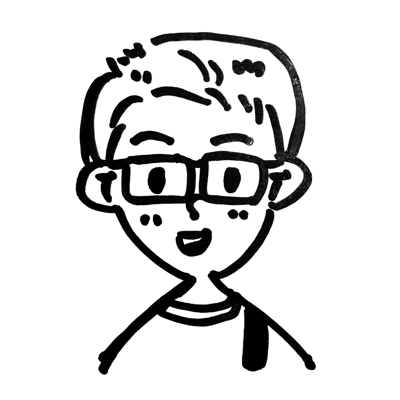
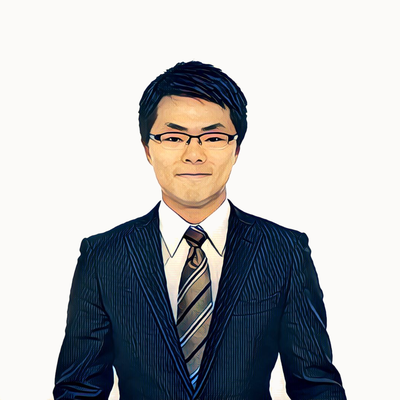
换用真人头像，人文智能卡片正文压缩到与其余三块齐平
头像：
- 换成本人证件照（原图 1080×1080）
- 裁掉带暗角的外框，从四边泛洪填充把背景重涂为站点浅色背景 #fbfaf8
  （泛洪只取与边缘连通的区域，避免误伤被西装包住的白衬衫），
  边界做 1.2px 高斯羽化，缩放到 400×400
- .hero__avatar 底色改为 var(--bg)，浅色主题下头像与页面无缝衔接

人文智能卡片：
- 正文由 110 字压到 63 字，与其余三块（61/62/62）齐平
- 原本"落地"那半句移到标签行呈现：计量电影学 / 文化遗产数字化 / 闽南文化圈
- 四块卡片现在正文 73px、标签行 40px、整卡 223px，完全等高

diff --git a/index.html b/index.html
@@ -122,11 +122,10 @@
           <div class="card__num">01</div>
           <h3 class="card__title">人文智能</h3>
           <p class="card__body">
-            AI 与人文学科的交叉地带：既把大语言模型当作文本分析、知识组织与教学支持的方法论工具，
-            也从人文视角反思生成式 AI 的创作主体性、算法偏见与价值对齐。方法上落到文本挖掘与远读、
-            文化遗产数字化、计量电影学与色彩分析，以及闽南文化圈与海洋中国的空间与网络分析。
+            AI 与人文学科的交叉地带：大语言模型作为文本分析、知识组织与教学支持的工具，
+            也从人文视角反思生成式 AI 的创作主体性与算法偏见。
           </p>
-          <div class="card__meta"><span class="tag">LLM</span><span class="tag tag--muted">数字人文</span><span class="tag tag--muted">计量电影学</span><span class="tag tag--muted">C-STEAM</span></div>
+          <div class="card__meta"><span class="tag">计量电影学</span><span class="tag tag--muted">文化遗产数字化</span><span class="tag tag--muted">闽南文化圈</span></div>
         </div>
 
         <div class="card">

diff --git a/assets/css/main.css b/assets/css/main.css
@@ -356,7 +356,8 @@ section + section { border-top: 1px solid var(--border); }
   border-radius: 50%;
   object-fit: cover;
   border: 1px solid var(--border);
-  background: var(--bg-sunken);
+  /* 图片背景已烘成浅色主题的 --bg，浅色下与页面无缝衔接 */
+  background: var(--bg);
 }
 
 @media (max-width: 40rem) {
